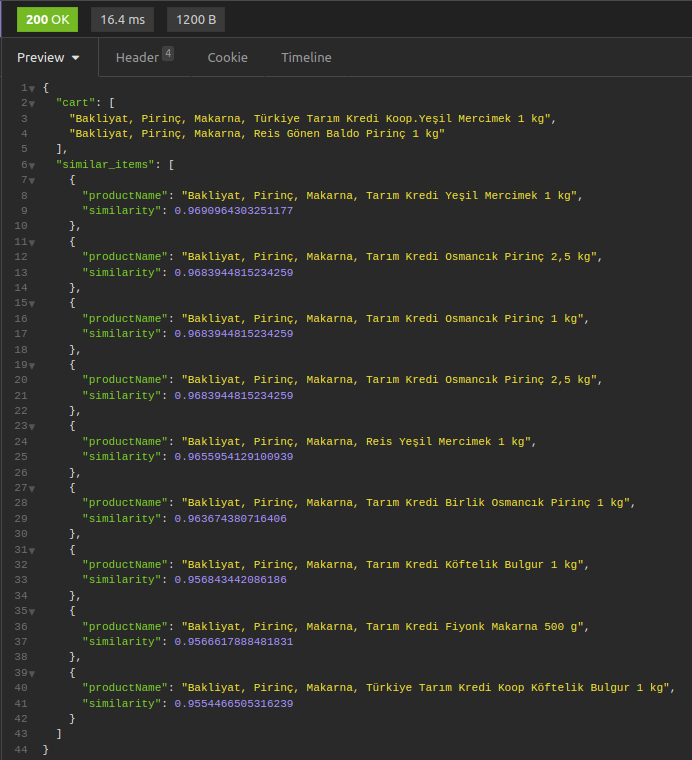
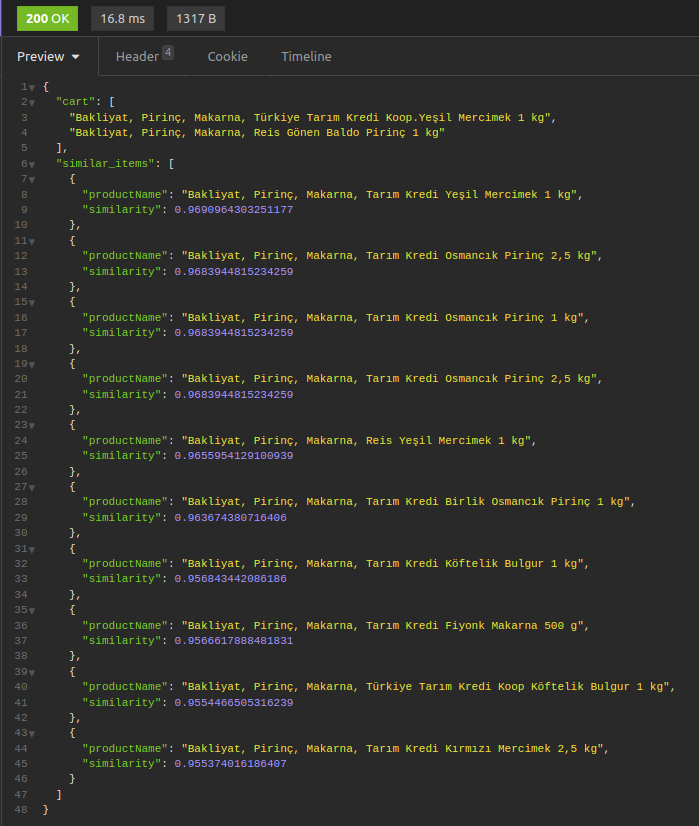
fixed suggestion count error

diff --git a/similarity_api/utils/utils.py b/similarity_api/utils/utils.py
@@ -136,7 +136,6 @@ def recommanded(products, avg_cart, cart):
 
     Return: 10 recommanded products with similarities
     """
-    results = []
     recommanded = {
         "cart" : cart,
         "similar_items" : []
@@ -145,19 +144,17 @@ def recommanded(products, avg_cart, cart):
     scores = calculate(multiple_item=products.avg.to_numpy(), single_item=avg_cart)
     
     # get top 10 similar products:
-    for i in range(10):
+    while len(recommanded['similar_items']) < 10:
         index = argmax(scores)
+        item_name = products.features[index]
         temp = {
-            "productName":products.features[index],
+            "productName": item_name,
             "similarity": scores[index]
         }
-        results.append(temp)
+        if item_name not in cart:
+            recommanded['similar_items'].append(temp)
+        else:
+            pass
         scores[index] = 0
-
-    # sort
-    results = sorted(results, key=lambda x: x["similarity"], reverse=True)
-    for item in results:
-        if item['productName'] not in cart:
-            recommanded['similar_items'].append(item)
 
     return recommanded
